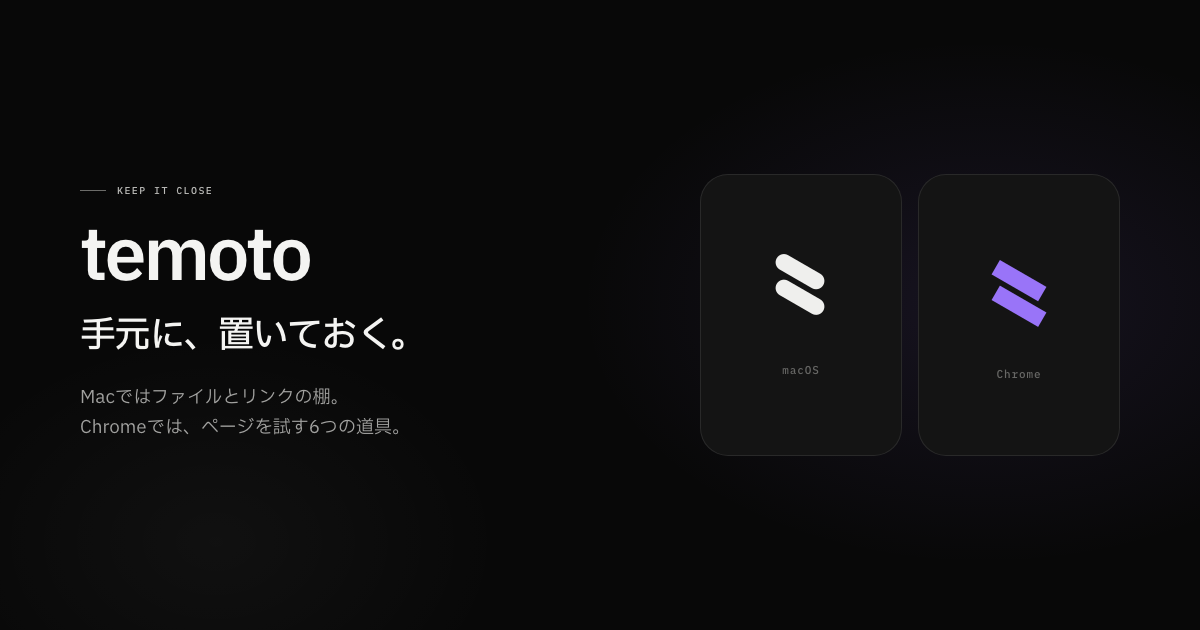
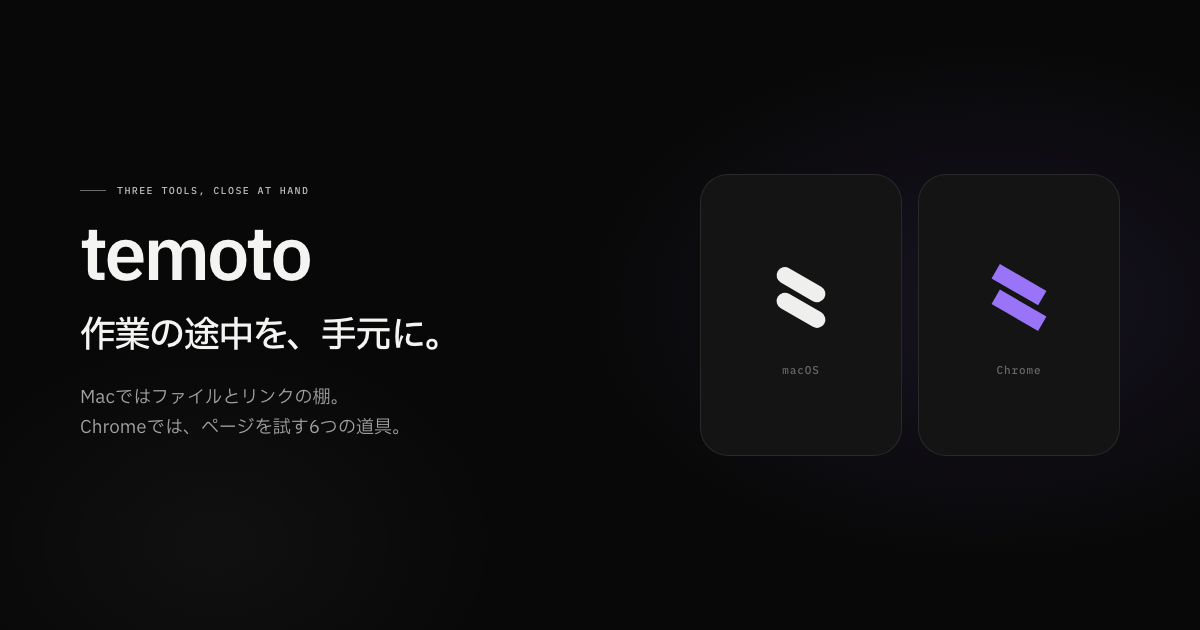
Improve site navigation and accessibility

diff --git a/site/app/globals.css b/site/app/globals.css
@@ -20,16 +20,21 @@ button, a { -webkit-tap-highlight-color: transparent; }
 button { font: inherit; }
 .shell { width: min(1240px, calc(100% - 64px)); margin-inline: auto; }
 
-.nav { height: 88px; display: flex; align-items: center; position: relative; z-index: 10; border-bottom: 1px solid rgba(255,255,255,.07); }
+.skipLink { position: fixed; z-index: 100; left: 16px; top: 12px; padding: 10px 14px; border-radius: 9px; background: var(--paper); color: #0c0c0c; font-size: 12px; font-weight: 600; transform: translateY(-150%); transition: transform .2s ease; }
+.skipLink:focus { transform: translateY(0); }
+.siteHeader { position: sticky; z-index: 50; top: 0; border-bottom: 1px solid rgba(255,255,255,.07); background: rgba(8,8,8,.86); backdrop-filter: blur(22px) saturate(120%); -webkit-backdrop-filter: blur(22px) saturate(120%); }
+.nav { height: 88px; display: flex; align-items: center; }
 .brand { display: inline-flex; align-items: center; gap: 10px; font-size: 17px; line-height: 1; font-weight: 600; letter-spacing: -.045em; }
 .brand .temotoMark { width: 18px; height: 18px; }
 .navLinks { margin-left: auto; display: flex; gap: 32px; color: var(--muted); font-size: 12px; }
 .navLinks a, .footer a { transition: color .2s ease; }
 .navLinks a:hover, .footer a:hover { color: var(--ink); }
+.navLinks a[aria-current="location"] { color: var(--ink); }
+.mobileProductNav { display: none; }
 .navGitHub { margin-left: 38px; min-width: 118px; height: 39px; padding: 0 16px; border: 1px solid var(--line); border-radius: 999px; display: flex; align-items: center; justify-content: space-between; font: 500 11px var(--font-ibm-plex-mono); text-transform: uppercase; letter-spacing: .06em; transition: background .2s ease, border-color .2s ease; }
 .navGitHub:hover { background: rgba(255,255,255,.07); border-color: var(--line-strong); }
 .navGitHub i { font-style: normal; font-size: 14px; }
-#macos, #chrome, #proxy, #products { scroll-margin-top: 28px; }
+#macos, #chrome, #proxy, #products { scroll-margin-top: 104px; }
 
 .hero { min-height: 760px; height: calc(100svh - 88px); max-height: 940px; display: grid; grid-template-columns: minmax(0, .9fr) minmax(520px, 1.1fr); align-items: center; gap: clamp(46px, 7vw, 110px); padding-block: 62px 74px; }
 .heroCopy { position: relative; z-index: 2; }
@@ -52,7 +57,7 @@ h1 { margin: 0; font-size: clamp(58px, 5.25vw, 78px); line-height: 1.08; letter-
 .textLink { color: #b8b8b5; font-size: 12px; border-bottom: 1px solid #525250; padding-bottom: 4px; transition: color .2s ease, border-color .2s ease; }
 .textLink:hover { color: var(--ink); border-color: var(--ink); }
 .textLink span { margin-left: 5px; }
-.requirements { margin: 22px 0 0; color: #666663; font: 400 9px var(--font-ibm-plex-mono); letter-spacing: .045em; text-transform: uppercase; }
+.requirements { margin: 22px 0 0; color: #989895; font: 400 10px var(--font-ibm-plex-mono); letter-spacing: .045em; text-transform: uppercase; }
 
 .shelfScene { height: min(630px, 68vw); min-height: 540px; position: relative; display: grid; place-items: center; isolation: isolate; }
 .shelfScene::before { content: ""; position: absolute; width: 88%; aspect-ratio: 1; border-radius: 50%; background: radial-gradient(circle, rgba(255,255,255,.08) 0, rgba(255,255,255,.025) 43%, transparent 72%); filter: blur(14px); }
@@ -87,7 +92,7 @@ h1 { margin: 0; font-size: clamp(58px, 5.25vw, 78px); line-height: 1.08; letter-
 
 .hubScene { display: grid; grid-template-columns: 1fr 1fr; align-items: end; gap: 18px; min-width: 0; overflow: hidden; }
 .hubPane { min-width: 0; display: grid; gap: 14px; }
-.hubPane > span { color: #5d5d5b; font: 400 8px var(--font-ibm-plex-mono); letter-spacing: .14em; }
+.hubPane > span { color: #858582; font: 400 10px var(--font-ibm-plex-mono); letter-spacing: .14em; }
 .shelfScene.isCompact, .chromeScene.isCompact { width: 100%; height: auto; min-height: 0; }
 .shelfScene.isCompact::before, .shelfScene.isCompact::after, .shelfScene.isCompact .sceneLabel, .shelfScene.isCompact .shortcutTag { display: none; }
 .shelfScene.isCompact .appShelf { width: 100%; max-width: none; aspect-ratio: 1; border-radius: 36px; padding: 16px 14px 12px; }
@@ -152,7 +157,7 @@ h1 { margin: 0; font-size: clamp(58px, 5.25vw, 78px); line-height: 1.08; letter-
 .productPick { margin-top: 76px; display: grid; grid-template-columns: repeat(3, minmax(0, 1fr)); gap: 16px; }
 .productCard { min-height: 420px; padding: 28px; display: flex; flex-direction: column; border: 1px solid rgba(255,255,255,.09); border-radius: 28px; background: var(--panel); transition: border-color .2s ease, background .2s ease, transform .2s ease; }
 .productCard:hover { border-color: rgba(255,255,255,.2); background: #181818; transform: translateY(-2px); }
-.productMeta { display: flex; justify-content: space-between; color: #858582; font: 400 8px var(--font-ibm-plex-mono); letter-spacing: .11em; }
+.productMeta { display: flex; justify-content: space-between; color: #a2a29f; font: 400 10px var(--font-ibm-plex-mono); letter-spacing: .11em; }
 .productMeta em { font-style: normal; }
 .productVisual { flex: 1; min-height: 140px; display: grid; place-items: center; color: #d6d6d3; }
 .macAppIcon { display: block; background: url("/favicon.png") center / contain no-repeat; }
@@ -177,7 +182,7 @@ h1 { margin: 0; font-size: clamp(58px, 5.25vw, 78px); line-height: 1.08; letter-
 .locationCard.isMenuBar { justify-content: flex-end; background: #121212; border-radius: 0 0 16px 16px; border-top: 0; }
 .menuBarChip { width: 36px; height: 28px; display: grid; place-items: center; border: 1px solid rgba(255,255,255,.12); border-radius: 8px; }
 .menuBarIcon { width: 20px; height: 20px; display: block; background: #b7b7b4; -webkit-mask: url("/menu-bar-template.svg") center / contain no-repeat; mask: url("/menu-bar-template.svg") center / contain no-repeat; }
-.locationModes figcaption { color: #5e5e5c; font: 400 8px var(--font-ibm-plex-mono); letter-spacing: .12em; }
+.locationModes figcaption { color: #8d8d8a; font: 400 10px var(--font-ibm-plex-mono); letter-spacing: .12em; }
 
 .shortcutStack { margin-top: 48px; display: grid; gap: 14px; }
 .shortcutStack .bigShortcut { margin-top: 0; }
@@ -186,7 +191,7 @@ h1 { margin: 0; font-size: clamp(58px, 5.25vw, 78px); line-height: 1.08; letter-
 .chromeToolList li { min-height: 160px; padding: 28px 24px 28px 0; display: grid; grid-template-columns: 55px 1fr; gap: 12px; border-bottom: 1px solid rgba(255,255,255,.11); }
 .chromeToolList li:nth-child(odd) { padding-right: 36px; }
 .chromeToolList li:nth-child(even) { padding-left: 36px; border-left: 1px solid rgba(255,255,255,.11); }
-.chromeToolList > li > span { padding-top: 7px; color: #60605e; font: 400 9px var(--font-ibm-plex-mono); }
+.chromeToolList > li > span { padding-top: 7px; color: #8d8d8a; font: 400 10px var(--font-ibm-plex-mono); }
 .chromeToolList h3 { margin: 0; font-size: 22px; font-weight: 400; letter-spacing: -.04em; }
 .chromeToolList p { max-width: 420px; margin: 12px 0 0; color: #858582; font-size: 13px; line-height: 1.75; }
 
@@ -198,13 +203,13 @@ h1 { margin: 0; font-size: clamp(58px, 5.25vw, 78px); line-height: 1.08; letter-
 .signalStrip { border-block: 1px solid rgba(255,255,255,.075); background: #0b0b0b; }
 .signalInner { min-height: 126px; display: flex; align-items: center; justify-content: space-between; gap: 80px; }
 .signalInner > p { margin: 0; font-size: 18px; line-height: 1.4; letter-spacing: -.03em; }
-.signalInner > p span { color: #666663; }
+.signalInner > p span { color: #91918e; }
 .signalInner dl { margin: 0 0 0 auto; display: grid; grid-template-columns: repeat(3, 1fr); gap: clamp(36px, 6vw, 84px); }
 .signalInner dl div { display: flex; align-items: center; gap: 13px; }
-.signalInner dt { color: #555553; font: 400 9px var(--font-ibm-plex-mono); }
-.signalInner dd { margin: 0; color: #969693; font: 400 9px var(--font-ibm-plex-mono); letter-spacing: .08em; white-space: nowrap; }
+.signalInner dt { color: #858582; font: 400 10px var(--font-ibm-plex-mono); }
+.signalInner dd { margin: 0; color: #b1b1ae; font: 400 10px var(--font-ibm-plex-mono); letter-spacing: .08em; white-space: nowrap; }
 
-.section { padding-block: 170px; }
+.section { padding-block: 140px; }
 .sectionHeading { max-width: 750px; }
 .sectionHeading h2, .workflowIntro h2, .installHeading h2, .finalCta h2, .productHero h2 { margin: 0; font-size: clamp(47px, 5.35vw, 74px); line-height: 1.1; letter-spacing: -.062em; font-weight: 400; }
 .sectionHeading > p:last-child, .workflowIntro > p, .installHeading > p:last-child { max-width: 580px; margin: 28px 0 0; color: var(--muted); font-size: 15px; line-height: 1.9; }
@@ -212,7 +217,7 @@ h1 { margin: 0; font-size: clamp(58px, 5.25vw, 78px); line-height: 1.08; letter-
 .capabilityCard { min-height: 540px; padding: 25px 28px 30px; display: flex; flex-direction: column; overflow: hidden; border: 1px solid rgba(255,255,255,.09); border-radius: 28px; background: var(--panel); }
 .capabilityWide { grid-row: span 2; min-height: 760px; }
 .capabilityTypes, .capabilityCompact { min-height: 372px; }
-.capabilityTop { display: flex; align-items: center; gap: 13px; color: #5c5c5a; font: 400 9px var(--font-ibm-plex-mono); letter-spacing: .08em; }
+.capabilityTop { display: flex; align-items: center; gap: 13px; color: #898986; font: 400 10px var(--font-ibm-plex-mono); letter-spacing: .08em; }
 .capabilityTop i { flex: 1; height: 1px; background: rgba(255,255,255,.06); }
 .capabilityVisual { flex: 1; display: grid; place-items: center; min-height: 180px; }
 .capabilityCopy h3 { margin: 0; font-size: 23px; font-weight: 400; letter-spacing: -.04em; }
@@ -236,7 +241,7 @@ h1 { margin: 0; font-size: clamp(58px, 5.25vw, 78px); line-height: 1.08; letter-
 .typeStack small { font: 400 7px var(--font-ibm-plex-mono); letter-spacing: .1em; color: #5e5e5c; }
 .textType { font: 400 19px var(--font-ibm-plex-mono); }
 
-.workflow { padding-block: 170px; border-block: 1px solid rgba(255,255,255,.075); background: #101010; }
+.workflow { padding-block: 140px; border-block: 1px solid rgba(255,255,255,.075); background: #101010; }
 .workflowGrid { display: grid; grid-template-columns: .9fr 1.1fr; gap: clamp(70px, 10vw, 150px); }
 .workflowIntro { align-self: start; position: sticky; top: 80px; }
 .workflowIntro > p { max-width: 470px; }
@@ -244,7 +249,7 @@ h1 { margin: 0; font-size: clamp(58px, 5.25vw, 78px); line-height: 1.08; letter-
 .bigShortcut kbd { min-width: 72px; height: 48px; padding: 0 16px; display: grid; place-items: center; border: 1px solid rgba(255,255,255,.14); border-bottom-color: rgba(255,255,255,.28); border-radius: 10px; background: rgba(255,255,255,.035); color: #b7b7b4; font: 400 11px var(--font-ibm-plex-mono); box-shadow: inset 0 -3px 0 rgba(0,0,0,.25); }
 .workflowSteps { margin: 0; padding: 0; list-style: none; border-top: 1px solid rgba(255,255,255,.11); }
 .workflowSteps li { min-height: 220px; padding: 36px 0; display: grid; grid-template-columns: 55px 1fr; align-content: start; gap: 16px; border-bottom: 1px solid rgba(255,255,255,.11); }
-.workflowSteps > li > span { padding-top: 7px; color: #60605e; font: 400 9px var(--font-ibm-plex-mono); }
+.workflowSteps > li > span { padding-top: 7px; color: #8d8d8a; font: 400 10px var(--font-ibm-plex-mono); }
 .workflowSteps h3 { margin: 0; font-size: 29px; font-weight: 400; letter-spacing: -.045em; }
 .workflowSteps p { max-width: 490px; margin: 14px 0 0; color: #858582; font-size: 13px; line-height: 1.8; }
 
@@ -254,7 +259,7 @@ h1 { margin: 0; font-size: clamp(58px, 5.25vw, 78px); line-height: 1.08; letter-
 .installHeading > p:last-child { margin-inline: auto; }
 .installOptions { margin-top: 76px; display: grid; grid-template-columns: repeat(2, minmax(0, 1fr)); gap: 16px; }
 .installCard { min-width: 0; min-height: 560px; padding: 32px; display: flex; flex-direction: column; border: 1px solid rgba(255,255,255,.09); border-radius: 28px; background: var(--panel); }
-.installMeta { display: flex; justify-content: space-between; color: #686866; font: 400 8px var(--font-ibm-plex-mono); letter-spacing: .11em; }
+.installMeta { display: flex; justify-content: space-between; color: #979794; font: 400 10px var(--font-ibm-plex-mono); letter-spacing: .11em; }
 .installMeta em { font-style: normal; }
 .installCard h3 { margin: 60px 0 0; font-size: 30px; font-weight: 400; letter-spacing: -.045em; }
 .installCard ol { margin: 37px 0; padding: 0; display: grid; gap: 0; list-style: none; }
@@ -263,7 +268,7 @@ h1 { margin: 0; font-size: clamp(58px, 5.25vw, 78px); line-height: 1.08; letter-
 .installCard ol li span { color: #5e5e5c; font: 400 9px var(--font-ibm-plex-mono); }
 .installCard ol li p { margin: 0; color: #bababa; font-size: 12px; }
 .button.full { width: 100%; margin-top: auto; }
-.installCard > small { margin-top: 18px; color: #60605e; font-size: 10px; line-height: 1.6; }
+.installCard > small { margin-top: 18px; color: #92928f; font-size: 11px; line-height: 1.65; }
 .installTerminal > p { margin: 22px 0 0; max-width: 460px; color: #858582; font-size: 13px; line-height: 1.75; }
 .terminalWindow { margin-top: 43px; min-width: 0; border: 1px solid rgba(255,255,255,.11); border-radius: 16px; overflow: hidden; background: #0c0c0c; }
 .terminalBar { height: 38px; display: flex; align-items: center; gap: 6px; padding: 0 13px; border-bottom: 1px solid rgba(255,255,255,.075); }
@@ -275,16 +280,19 @@ h1 { margin: 0; font-size: clamp(58px, 5.25vw, 78px); line-height: 1.08; letter-
 .copyCommand:hover { background: rgba(255,255,255,.1); border-color: rgba(255,255,255,.22); }
 .copyCommand:active { transform: scale(.97); }
 .copyCommand:focus-visible, a:focus-visible { outline: 2px solid #fff; outline-offset: 3px; }
+.terminalTrust { margin-top: 14px; display: flex; flex-wrap: wrap; gap: 10px 18px; }
+.terminalTrust a { color: #b8b8b5; font-size: 11px; border-bottom: 1px solid #5f5f5c; padding-bottom: 3px; transition: color .2s ease, border-color .2s ease; }
+.terminalTrust a:hover { color: var(--ink); border-color: var(--ink); }
 .installTerminal > small { margin-top: auto; }
 .permissionNote { max-width: 900px; margin: 34px auto 0; padding: 22px 26px; display: flex; align-items: center; gap: 18px; border: 1px solid rgba(255,255,255,.075); border-radius: 18px; background: rgba(255,255,255,.02); }
 .permissionNote > span { width: 38px; height: 38px; display: grid; place-items: center; flex: 0 0 auto; border: 1px solid rgba(255,255,255,.1); border-radius: 11px; color: #a0a09d; font: 400 12px var(--font-ibm-plex-mono); }
 .permissionNote strong { font-size: 12px; font-weight: 500; }
-.permissionNote p { margin: 6px 0 0; color: #6a6a68; font-size: 10px; line-height: 1.65; }
+.permissionNote p { margin: 6px 0 0; color: #91918e; font-size: 11px; line-height: 1.7; }
 
 .finalCta { min-height: 600px; padding-block: 140px; display: flex; flex-direction: column; align-items: center; justify-content: center; text-align: center; border-top: 1px solid rgba(255,255,255,.075); }
-.finalCta > p { margin: 0 0 30px; color: #656563; font: 400 9px var(--font-ibm-plex-mono); letter-spacing: .15em; text-transform: uppercase; }
+.finalCta > p { margin: 0 0 30px; color: #91918e; font: 400 10px var(--font-ibm-plex-mono); letter-spacing: .15em; text-transform: uppercase; }
 .finalCta h2 { font-size: clamp(54px, 6.2vw, 86px); }
-.footer { min-height: 138px; display: grid; grid-template-columns: 1fr 1fr 1fr; align-items: center; border-top: 1px solid rgba(255,255,255,.075); color: #666663; font-size: 10px; }
+.footer { min-height: 138px; display: grid; grid-template-columns: 1fr 1fr 1fr; align-items: center; border-top: 1px solid rgba(255,255,255,.075); color: #92928f; font-size: 11px; }
 .footer p { text-align: center; }
 .footer > div { display: flex; justify-content: flex-end; gap: 24px; }
 
@@ -313,9 +321,13 @@ h1 { margin: 0; font-size: clamp(58px, 5.25vw, 78px); line-height: 1.08; letter-
 }
 
 @media (max-width: 640px) {
+  body { padding-bottom: calc(66px + env(safe-area-inset-bottom)); }
   .shell { width: min(100% - 28px, 1240px); }
   .nav { height: 70px; }
   .navLinks { display: none; }
+  .mobileProductNav { position: fixed; z-index: 80; left: 10px; right: 10px; bottom: calc(8px + env(safe-area-inset-bottom)); min-height: 50px; padding: 5px; display: grid; grid-template-columns: .65fr repeat(3, 1fr); gap: 4px; border: 1px solid rgba(255,255,255,.14); border-radius: 16px; background: rgba(17,17,17,.9); box-shadow: 0 14px 38px rgba(0,0,0,.5); backdrop-filter: blur(22px) saturate(120%); -webkit-backdrop-filter: blur(22px) saturate(120%); }
+  .mobileProductNav a { min-width: 0; display: grid; place-items: center; border-radius: 11px; color: #a2a29f; font: 500 10px var(--font-ibm-plex-mono); }
+  .mobileProductNav a[aria-current="location"] { background: rgba(255,255,255,.1); color: var(--ink); }
   .navGitHub { margin-left: auto; min-width: 40px; width: 40px; padding: 0; justify-content: center; }
   .navGitHub span { display: none; }
   .hero { min-height: 0; padding-block: 78px 58px; gap: 36px; }
@@ -341,7 +353,7 @@ h1 { margin: 0; font-size: clamp(58px, 5.25vw, 78px); line-height: 1.08; letter-
   .signalInner { display: block; }
   .signalInner > p { font-size: 16px; }
   .signalInner dl { margin-top: 25px; }
-  .section, .workflow { padding-block: 110px; }
+  .section, .workflow { padding-block: 92px; }
   .sectionHeading h2, .workflowIntro h2, .installHeading h2, .productHero h2 { font-size: 40px; line-height: 1.14; }
   .productHero { padding-block: 72px 20px; }
   .productCard { min-height: 0; padding: 22px; }

diff --git a/site/app/page.tsx b/site/app/page.tsx
@@ -1,11 +1,14 @@
 import { CopyCommandButton } from "./CopyCommandButton";
 import { JapaneseText } from "./JapaneseText";
+import { ProductNavigation } from "./ProductNavigation";
 
 const downloadUrl =
   "https://github.com/hayashiii-ghub/temoto/releases/latest/download/temoto-macos.dmg";
 const repositoryUrl = "https://github.com/hayashiii-ghub/temoto";
 const chromeSourceUrl = `${repositoryUrl}/tree/main/browser/temoto-chrome`;
 const proxySourceUrl = `${repositoryUrl}/tree/main/browser/temoto-proxy`;
+const installScriptSourceUrl = `${repositoryUrl}/blob/main/script/install_latest.sh`;
+const releasesUrl = `${repositoryUrl}/releases/latest`;
 const updateCommand =
   "curl -fsSL https://github.com/hayashiii-ghub/temoto/releases/latest/download/install_latest.sh | bash";
 
@@ -142,7 +145,7 @@ function FileMark({ kind }: { kind: "file" | "folder" | "link" }) {
 
 function ShelfPreview({ compact = false }: { compact?: boolean }) {
   return (
-    <div className={`shelfScene${compact ? " isCompact" : ""}`} aria-label="3つの項目が入ったtemoto for macOSの画面イメージ">
+    <div className={`shelfScene${compact ? " isCompact" : ""}`} role="img" aria-label="3つの項目が入ったtemoto for macOSの画面イメージ">
       <div className="sceneLabel sceneLabelTop"><span>ON SCREEN</span><i /></div>
       <div className="appShelf">
         <div className="appShelfHighlight" />
@@ -204,7 +207,7 @@ function ChromeToolIcon({ path }: { path: string }) {
 
 function ChromePreview({ compact = false }: { compact?: boolean }) {
   return (
-    <div className={`chromeScene${compact ? " isCompact" : ""}`} aria-label="temoto for Chromeのランチャー画面イメージ">
+    <div className={`chromeScene${compact ? " isCompact" : ""}`} role="img" aria-label="temoto for Chromeのランチャー画面イメージ">
       <div className="chromePopup">
         <div className="chromePopupHeader">
           <p>temoto <span className="chromeFor">for Chrome</span></p>
@@ -250,7 +253,7 @@ const proxyFeatures = [
 
 function ProxyPreview() {
   return (
-    <div className="proxyScene" aria-label="temoto Proxyのプロファイル設定画面イメージ">
+    <div className="proxyScene" role="img" aria-label="temoto Proxyのプロファイル設定画面イメージ">
       <div className="proxyWindow">
         <div className="proxyTopbar"><strong>temoto <span>Proxy</span></strong><small>PROXY OFF</small></div>
         <div className="proxyBody">
@@ -323,20 +326,21 @@ function LocationModes() {
 
 export default function Home() {
   return (
-    <main id="top">
-      <nav className="nav shell" aria-label="メインナビゲーション">
-        <a className="brand" href="#top" aria-label="temoto トップへ">temoto</a>
-        <div className="navLinks">
-          <a href="#macos">macOS</a>
-          <a href="#chrome">Chrome</a>
-          <a href="#proxy">Proxy</a>
+    <>
+      <a className="skipLink" href="#content">本文へ移動</a>
+      <header className="siteHeader" id="top">
+        <div className="nav shell">
+          <a className="brand" href="#top" aria-label="temoto トップへ">temoto</a>
+          <ProductNavigation />
+          <a className="navGitHub" href={repositoryUrl} aria-label="GitHub"><span>GitHub</span><i aria-hidden="true">↗</i></a>
         </div>
-        <a className="navGitHub" href={repositoryUrl} aria-label="GitHub"><span>GitHub</span><i aria-hidden="true">↗</i></a>
-      </nav>
+      </header>
+
+      <main id="content">
 
       <section className="hero shell">
         <div className="heroCopy">
-          <h1><JapaneseText>手元に、置いておく。</JapaneseText></h1>
+          <h1><JapaneseText>作業の途中を、手元に。</JapaneseText></h1>
           <p className="lead">
             <JapaneseText>temotoは、作業の途中にあるものを近くに残すための小さな道具。Macではファイルとリンクの棚。Chromeでは、ページを試す道具と開発用プロキシ。</JapaneseText>
           </p>
@@ -352,7 +356,7 @@ export default function Home() {
 
       <section className="signalStrip" aria-label="temotoの製品">
         <div className="shell signalInner">
-          <p>Keep it close.<br /><span>Keep moving.</span></p>
+          <p><JapaneseText>作業の途中を、手元に。</JapaneseText><br /><span><JapaneseText>使う場所に合わせて。</JapaneseText></span></p>
           <dl>
             <div><dt>01</dt><dd>MACOS SHELF</dd></div>
             <div><dt>02</dt><dd>CHROME TOOLS</dd></div>
@@ -467,7 +471,11 @@ export default function Home() {
                 <div className="terminalBar"><span /><span /><span /><small>zsh</small></div>
                 <div className="commandRow"><code>{updateCommand}</code><CopyCommandButton command={updateCommand} /></div>
               </div>
-              <small><JapaneseText>同じコマンドをもう一度実行すれば、いつでも最新版へ更新できます。</JapaneseText></small>
+              <div className="terminalTrust">
+                <a href={installScriptSourceUrl}>実行前にスクリプトを確認 <span aria-hidden="true">↗</span></a>
+                <a href={releasesUrl}>GitHub Releaseの配布物を見る <span aria-hidden="true">↗</span></a>
+              </div>
+              <small><JapaneseText>GitHub Releasesから取得します。同じコマンドをもう一度実行すれば、いつでも最新版へ更新できます。</JapaneseText></small>
             </article>
           </div>
           <div className="permissionNote">
@@ -591,15 +599,15 @@ export default function Home() {
       </section>
 
       <section className="finalCta shell">
-        <p>Keep it close.</p>
+        <p>CHOOSE A TEMOTO</p>
         <h2><JapaneseText>手元の道具を、選ぶ。</JapaneseText></h2>
         <div className="finalActions">
-          <a className="button primary" href={downloadUrl}>temoto for macOS <span aria-hidden="true">↘</span></a>
-          <a className="button ghost" href={chromeSourceUrl}>temoto for Chrome <span aria-hidden="true">↗</span></a>
-          <a className="button ghost" href={proxySourceUrl}>temoto Proxy <span aria-hidden="true">↗</span></a>
+          <a className="button primary" href={downloadUrl}>macOS版をダウンロード <span aria-hidden="true">↘</span></a>
+          <a className="button ghost" href={chromeSourceUrl}>Chrome版のソースを見る（審査中） <span aria-hidden="true">↗</span></a>
+          <a className="button ghost" href={proxySourceUrl}>Proxy版のソースを見る（審査中） <span aria-hidden="true">↗</span></a>
         </div>
       </section>
-
+      </main>
       <footer className="footer shell">
         <a className="brand" href="#top">temoto</a>
         <p>© 2026 temoto</p>
@@ -611,6 +619,6 @@ export default function Home() {
           <a href="#proxy">Proxy</a>
         </div>
       </footer>
-    </main>
+    </>
   );
 }

diff --git a/site/app/ProductNavigation.tsx b/site/app/ProductNavigation.tsx
@@ -1,0 +1,62 @@
+"use client";
+
+import { useEffect, useState } from "react";
+
+const destinations = [
+  { id: "top", label: "トップ", shortLabel: "↑" },
+  { id: "macos", label: "macOS", shortLabel: "Mac" },
+  { id: "chrome", label: "Chrome", shortLabel: "Chrome" },
+  { id: "proxy", label: "Proxy", shortLabel: "Proxy" },
+] as const;
+
+type DestinationId = (typeof destinations)[number]["id"];
+
+export function ProductNavigation() {
+  const [activeId, setActiveId] = useState<DestinationId>("top");
+
+  useEffect(() => {
+    const sections = destinations
+      .map(({ id }) => document.getElementById(id))
+      .filter((section): section is HTMLElement => section !== null);
+
+    const observer = new IntersectionObserver(
+      (entries) => {
+        const visible = entries
+          .filter((entry) => entry.isIntersecting)
+          .sort((a, b) => b.intersectionRatio - a.intersectionRatio)[0];
+
+        if (visible?.target.id) {
+          setActiveId(visible.target.id as DestinationId);
+        }
+      },
+      { rootMargin: "-28% 0px -58%", threshold: [0, 0.05, 0.2] },
+    );
+
+    sections.forEach((section) => observer.observe(section));
+    return () => observer.disconnect();
+  }, []);
+
+  return (
+    <>
+      <nav className="navLinks" aria-label="製品ナビゲーション">
+        {destinations.slice(1).map(({ id, label }) => (
+          <a href={`#${id}`} aria-current={activeId === id ? "location" : undefined} key={id}>
+            {label}
+          </a>
+        ))}
+      </nav>
+      <nav className="mobileProductNav" aria-label="製品を切り替える">
+        {destinations.map(({ id, label, shortLabel }) => (
+          <a
+            href={`#${id}`}
+            aria-label={id === "top" ? "ページ上部へ戻る" : `${label}へ移動`}
+            aria-current={activeId === id ? "location" : undefined}
+            key={id}
+          >
+            {shortLabel}
+          </a>
+        ))}
+      </nav>
+    </>
+  );
+}

diff --git a/site/app/layout.tsx b/site/app/layout.tsx
@@ -14,9 +14,9 @@ const ibmPlexMono = IBM_Plex_Mono({
   weight: ["400", "500", "600"],
   display: "swap",
 });
-const title = "temoto — 手元に、置いておく。";
+const title = "temoto — 作業の途中を、手元に。";
 const description =
-  "Macではファイルとリンクの棚。Chromeではページを試す6つの道具と、開発用プロキシの切り替え。アカウントなしで、手元に置いておく。";
+  "Macではファイルとリンクの棚。Chromeではページを試す6つの道具と、開発用プロキシの切り替え。作業の途中を、手元に残すためのtemoto。";
 
 export const metadata: Metadata = {
   metadataBase: new URL("https://temoto.haygsiiii.chatgpt.site"),

diff --git a/site/scripts/og.html b/site/scripts/og.html
@@ -111,9 +111,9 @@
   <body>
     <main>
       <section>
-        <p class="eyebrow"><span></span> KEEP IT CLOSE</p>
+        <p class="eyebrow"><span></span> THREE TOOLS, CLOSE AT HAND</p>
         <p class="brand">temoto</p>
-        <h1>手元に、置いておく。</h1>
+        <h1>作業の途中を、手元に。</h1>
         <p class="lead">Macではファイルとリンクの棚。<br />Chromeでは、ページを試す6つの道具。</p>
       </section>
       <section class="products" aria-hidden="true">
